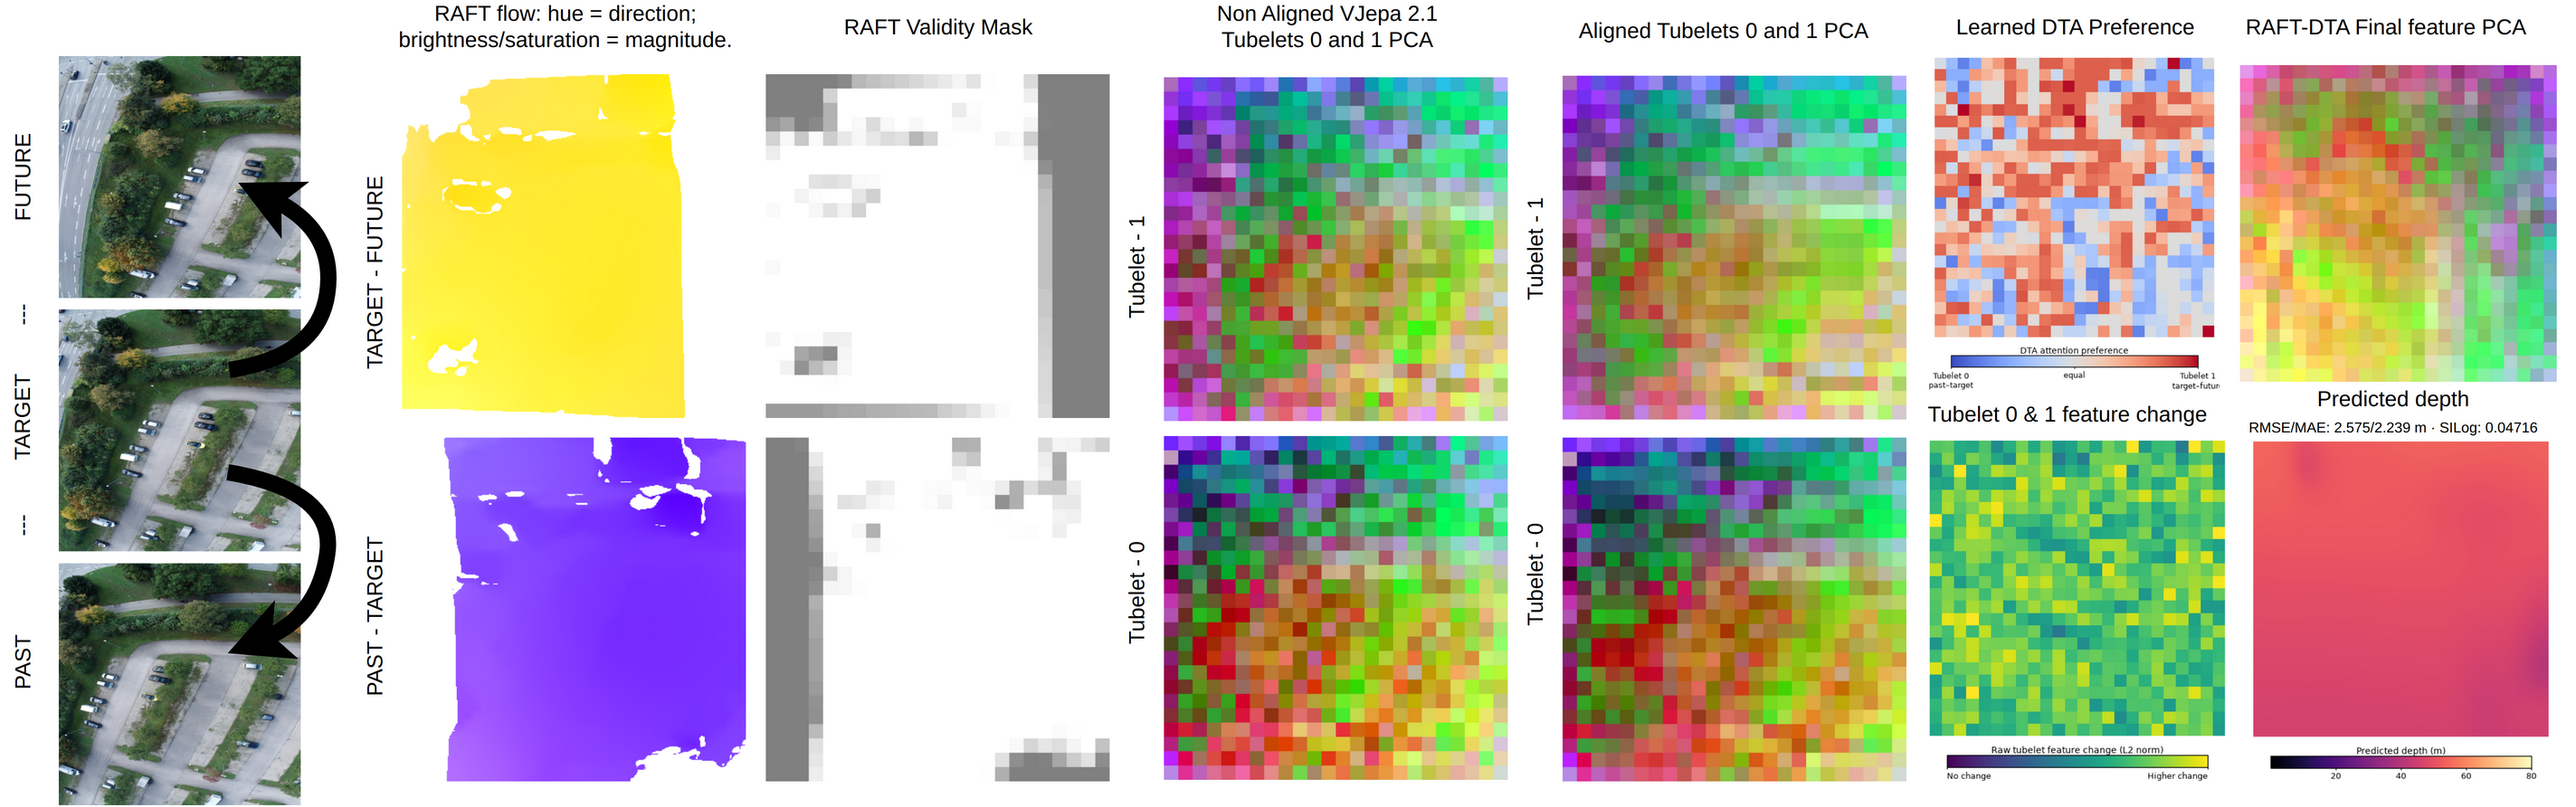
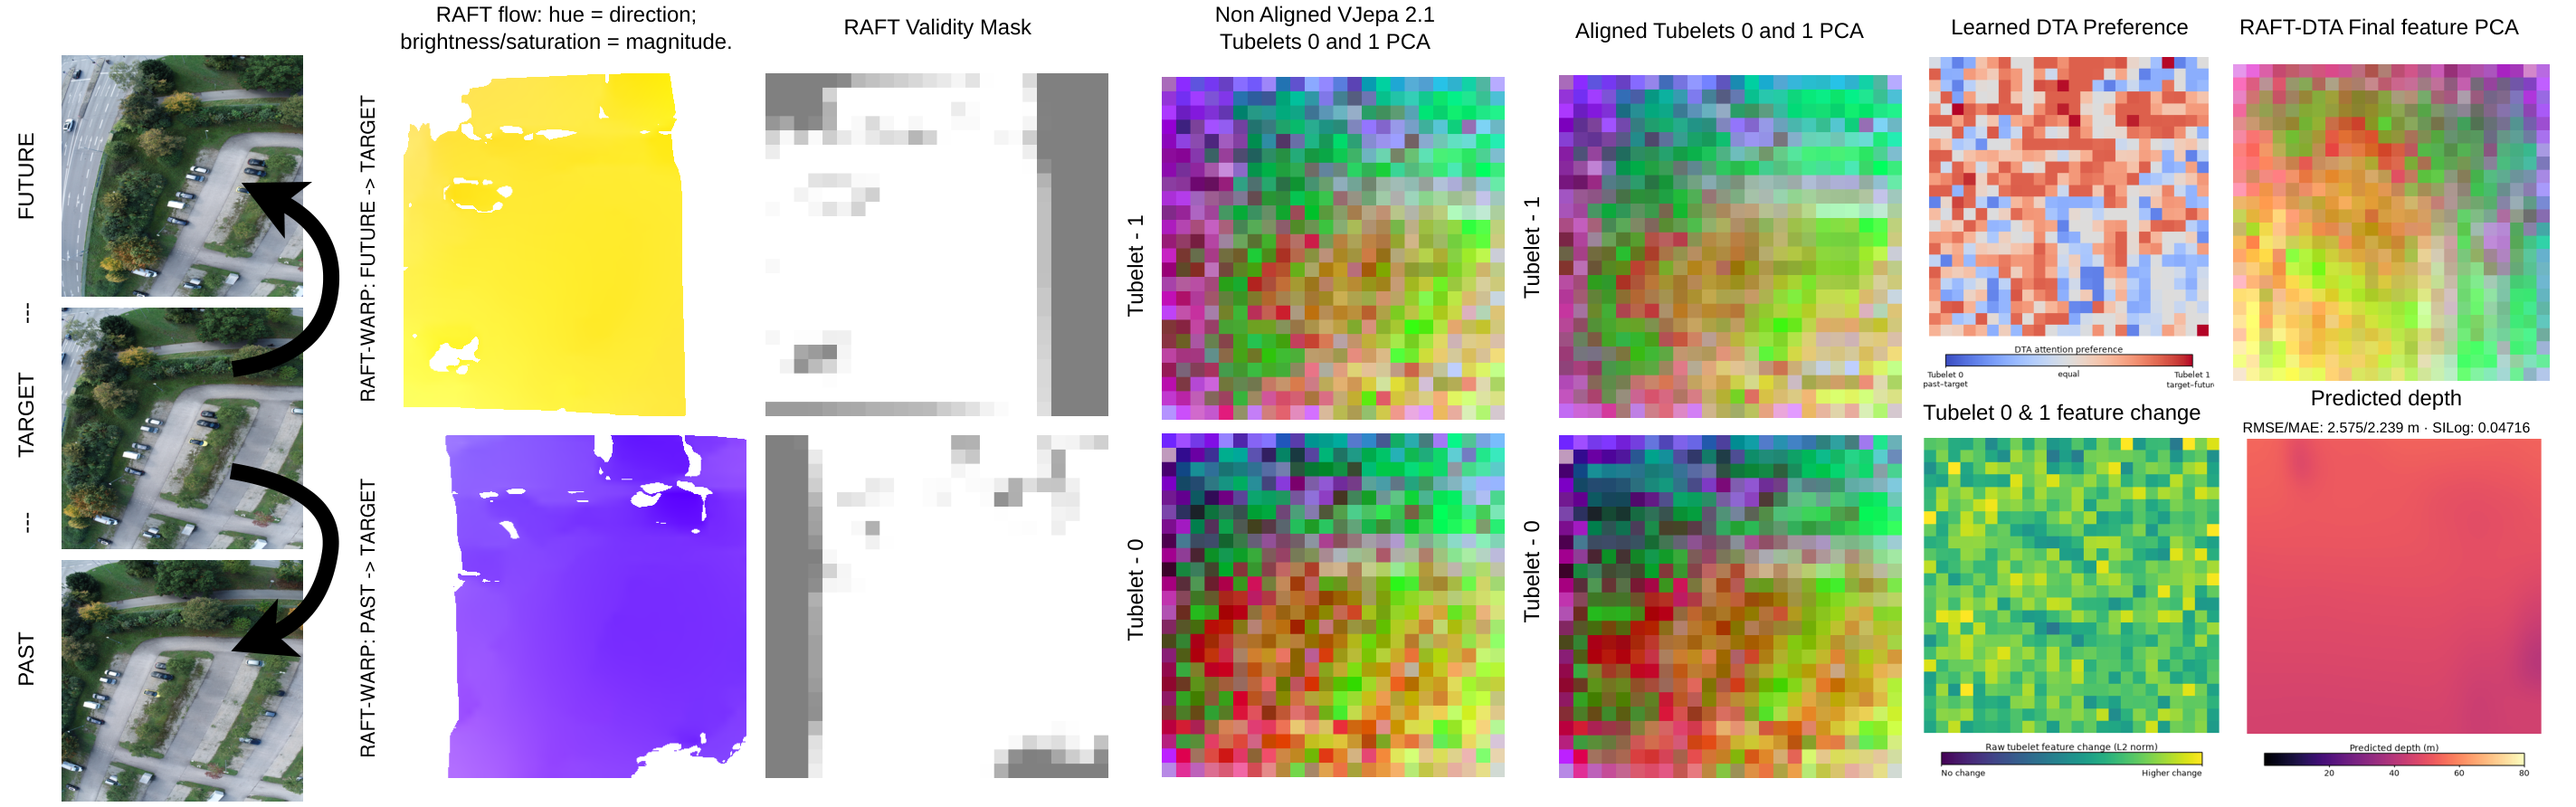
docs: clarify RAFT warp directions in Figure 3

diff --git a/content/chapters/3_method.tex b/content/chapters/3_method.tex
@@ -66,7 +66,7 @@ The affine projections start near zero so the initial path remains close to the 
 \begin{figure*}[!t]
 \centering
 \includegraphics[width=\textwidth]{dtavideo/dta_raft_exact.pdf}
-\caption{Flow-aligned DTA diagnostic for the four-frame V-JEPA~2.1 clip. The raw tubelet PCA maps precede alignment; feature change is their channel-wise $\ell_2$ difference, normalized at the 99th percentile. RAFT flow and validity align each tubelet before DTA, whose blue/red preference favors tubelet 0/1. Raw, aligned, and DTA maps share one PCA basis; the predicted depth uses a 0--80~m scale.}
+\caption{Flow-aligned DTA diagnostic for the four-frame V-JEPA~2.1 clip. The raw tubelet PCA maps precede alignment; feature change is their channel-wise $\ell_2$ difference, normalized at the 99th percentile. RAFT flow and validity backward-warp the past and future tubelets into target coordinates before DTA, whose blue/red preference favors tubelet 0/1. Raw, aligned, and DTA maps share one PCA basis; the predicted depth uses a 0--80~m scale.}
 \label{fig:dta_raft_compact}
 \end{figure*}
 
